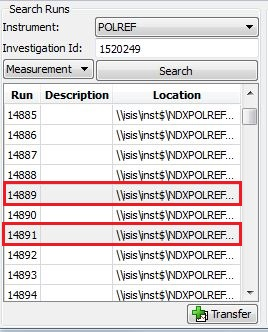
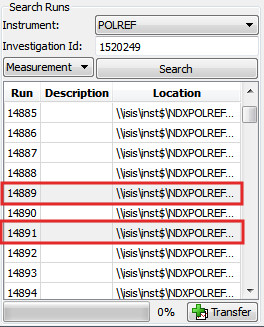
Re #14921 Fix OX build and update documentation and release notes

diff --git a/MantidQt/CustomInterfaces/inc/MantidQtCustomInterfaces/Reflectometry/IReflTablePresenter.h b/MantidQt/CustomInterfaces/inc/MantidQtCustomInterfaces/Reflectometry/IReflTablePresenter.h
@@ -3,6 +3,7 @@
 
 #include <map>
 #include <string>
+#include <vector>
 
 #include "MantidKernel/System.h"
 

diff --git a/docs/source/interfaces/ISIS_Reflectometry.rst b/docs/source/interfaces/ISIS_Reflectometry.rst
@@ -100,42 +100,9 @@ Menu bar
 .. interface:: ISIS Reflectometry (Polref)
   :widget: menuBar
 
-The **Reflectometry** menu provides access to the following functionality:
-
-+------------------+----------------------------------------------------------+
-| Action           | Effect                                                   |
-+==================+==========================================================+
-| Open Table       | Opens a valid *TableWorkspace* in the `Processing Table`_|
-|                  | for processing.                                          |
-+------------------+----------------------------------------------------------+
-| New Table        | Discards the current contents of the `Processing Table`_,|
-|                  | presenting a blank table.                                |
-+------------------+----------------------------------------------------------+
-| Save Table       | Saves the current contents of the `Processing Table`_ to |
-|                  | the *TableWorkspace* it came from. If no such workspace  |
-|                  | already exists, a new one can be created.                |
-+------------------+----------------------------------------------------------+
-| Save Table As    | Saves the current contents of the `Processing Table`_ to |
-|                  | a new *TableWorkspace*.                                  |
-+------------------+----------------------------------------------------------+
-| Import .TBL      | Opens a :ref:`LoadReflTBL <algm-LoadReflTBL>` dialog,    |
-|                  | enabling you to load a ``.tbl`` file into a              |
-|                  | *TableWorkspace*.                                        |
-+------------------+----------------------------------------------------------+
-| Export .TBL      | Opens a :ref:`SaveReflTBL <algm-SaveReflTBL>` dialog,    |
-|                  | enabling you to save a *TableWorkspace* to a ``.tbl``    |
-|                  | file.                                                    |
-+------------------+----------------------------------------------------------+
-| Slit Calculator  | Opens the slit calculator: a tool to help calculate the  |
-|                  | correct geometry for the instruments' slits. It's powered|
-|                  | by the :ref:`CalculateSlits <algm-CalculateSlits>`       |
-|                  | algorithm.                                               |
-+------------------+----------------------------------------------------------+
-| Options          | Opens the `Options <ISIS_Reflectomety-Options>`_ menu.   |
-+------------------+----------------------------------------------------------+
-
-The **Edit** menu provides access to the same actions found in the tool bar.
-These are documented in the `Tool Bar`_ section of this document.
+The **Reflectometry** menu provides access to the **Slit Calculator**,
+a tool to help calculate the correct geometry for the instruments' slits.
+It's powered by the :ref:`CalculateSlits <algm-CalculateSlits>` algorithm.
 
 Processing Table
 ~~~~~~~~~~~~~~~~
@@ -180,6 +147,29 @@ This table details the behaviour of the actions in the tool bar, from left to ri
 +------------------+----------------------------------------------------------+
 | Action           | Effect                                                   |
 +==================+==========================================================+
+| Open Table       | Opens a valid *TableWorkspace* in the `Processing Table`_|
+|                  | for processing.                                          |
++------------------+----------------------------------------------------------+
+| New Table        | Discards the current contents of the `Processing Table`_ |
+|                  | presenting a blank table.                                |
++------------------+----------------------------------------------------------+
+| Save Table       | Saves the current contents of the `Processing Table`_ to |
+|                  | the *TableWorkspace* it came from. If no such workspace  |
+|                  | already exists, a new one can be created.                |
++------------------+----------------------------------------------------------+
+| Save Table As    | Saves the current contents of the `Processing Table`_ to |
+|                  | a new *TableWorkspace*.                                  |
++------------------+----------------------------------------------------------+
+| Import .TBL      | Opens a :ref:`LoadReflTBL <algm-LoadReflTBL>` dialog,    |
+|                  | enabling you to load a ``.tbl`` file into a              |
+|                  | *TableWorkspace*.                                        |
++------------------+----------------------------------------------------------+
+| Export .TBL      | Opens a :ref:`SaveReflTBL <algm-SaveReflTBL>` dialog,    |
+|                  | enabling you to save a *TableWorkspace* to a ``.tbl``    |
+|                  | file.                                                    |
++------------------+----------------------------------------------------------+
+| Options          | Opens the `Options`_                             menu.   |
++------------------+----------------------------------------------------------+
 | Process          | Processes the selected runs, or, if no runs are selected,|
 |                  | all of the runs in the table.                            |
 +------------------+----------------------------------------------------------+

diff --git a/docs/source/release/v3.7.0/reflectometry.rst b/docs/source/release/v3.7.0/reflectometry.rst
@@ -24,6 +24,14 @@ ISIS Reflectometry (Polref)
 - Bugfix: When using the ICAT search in the interface, if the wrong user credentials were entered or the login dialog
   was closed before the details had been entered then mantid crashed. This has been fixed.
   `#15410 <https://github.com/mantidproject/mantid/pull/15410>`_
+- Some changes were made to the interface (functional behaviour remains the same). Specifically, options related to
+  the processing table have been moved to the *Process Runs* section. Therefore, there is only one menu left,
+  *Reflectometry*, to open the Slit Calculator. All table options are still accesible from the tool bar.
+  A new progress bar has been added to the *Search Runs* section, it show the progress when
+  transferring runs. The progress bar that existed before will only indicate the progress of processing that is
+  in progress.
+
+.. figure:: /images/ISISReflectometryPolref_newTableView.png
 
 ISIS Reflectometry
 ##################
